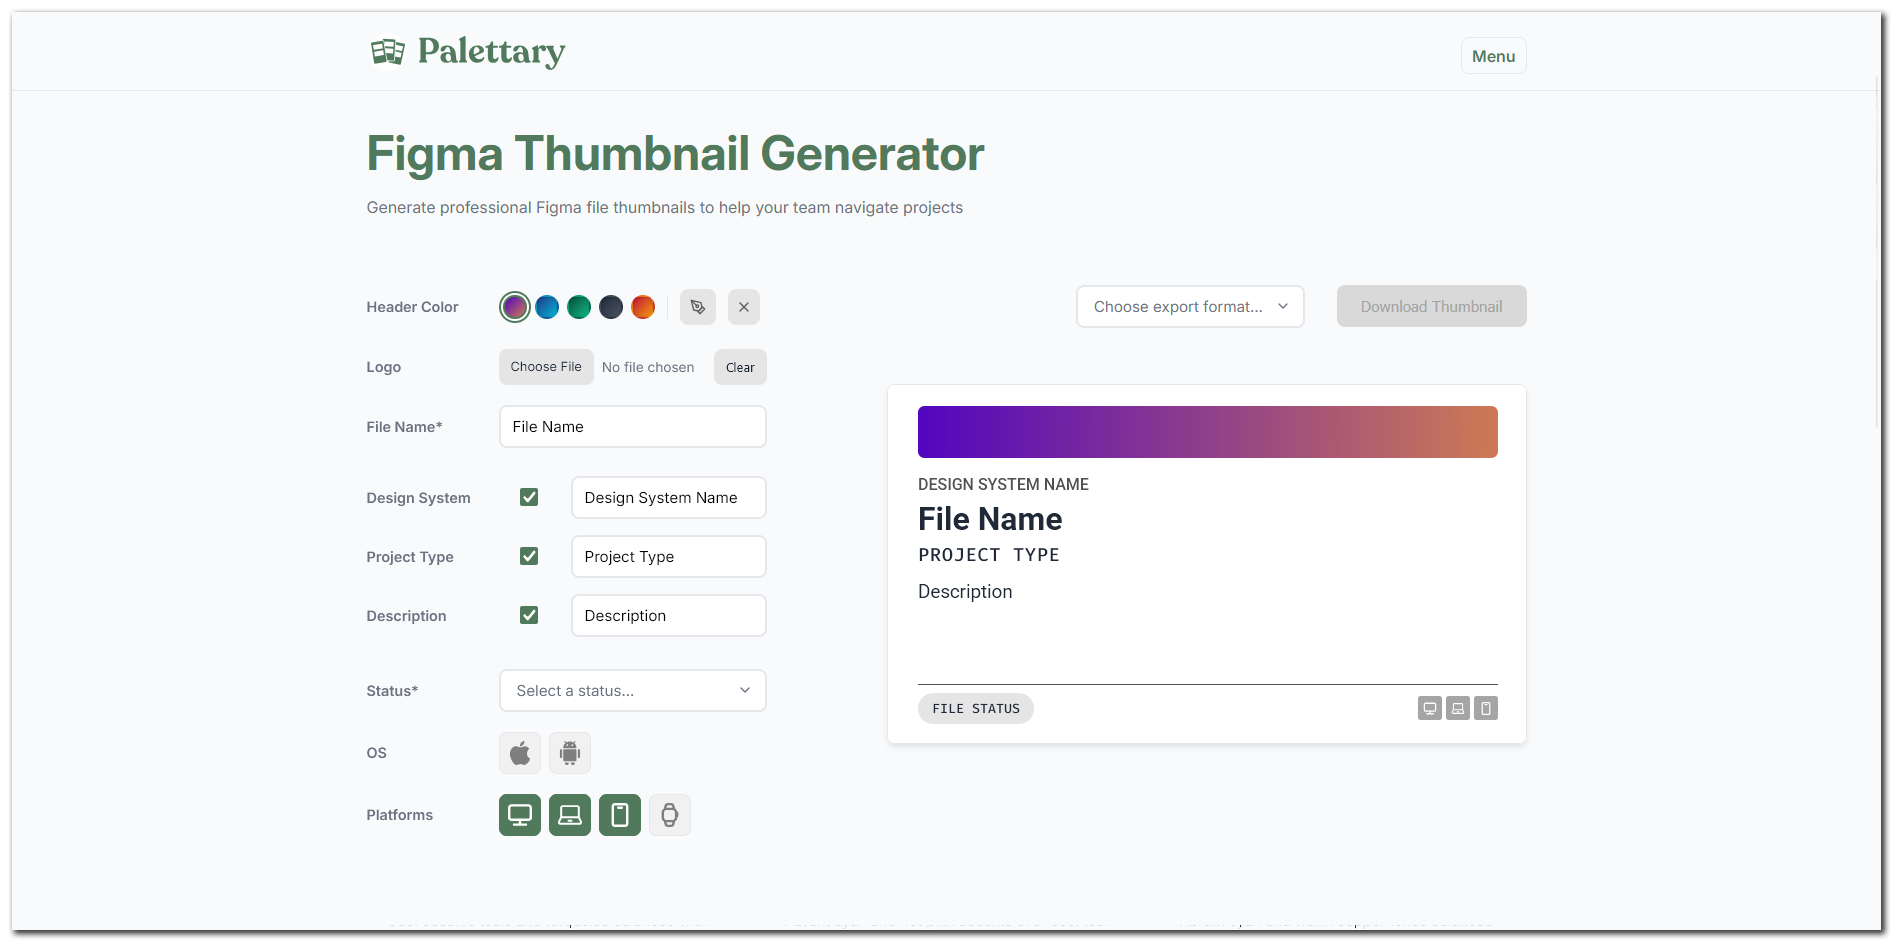
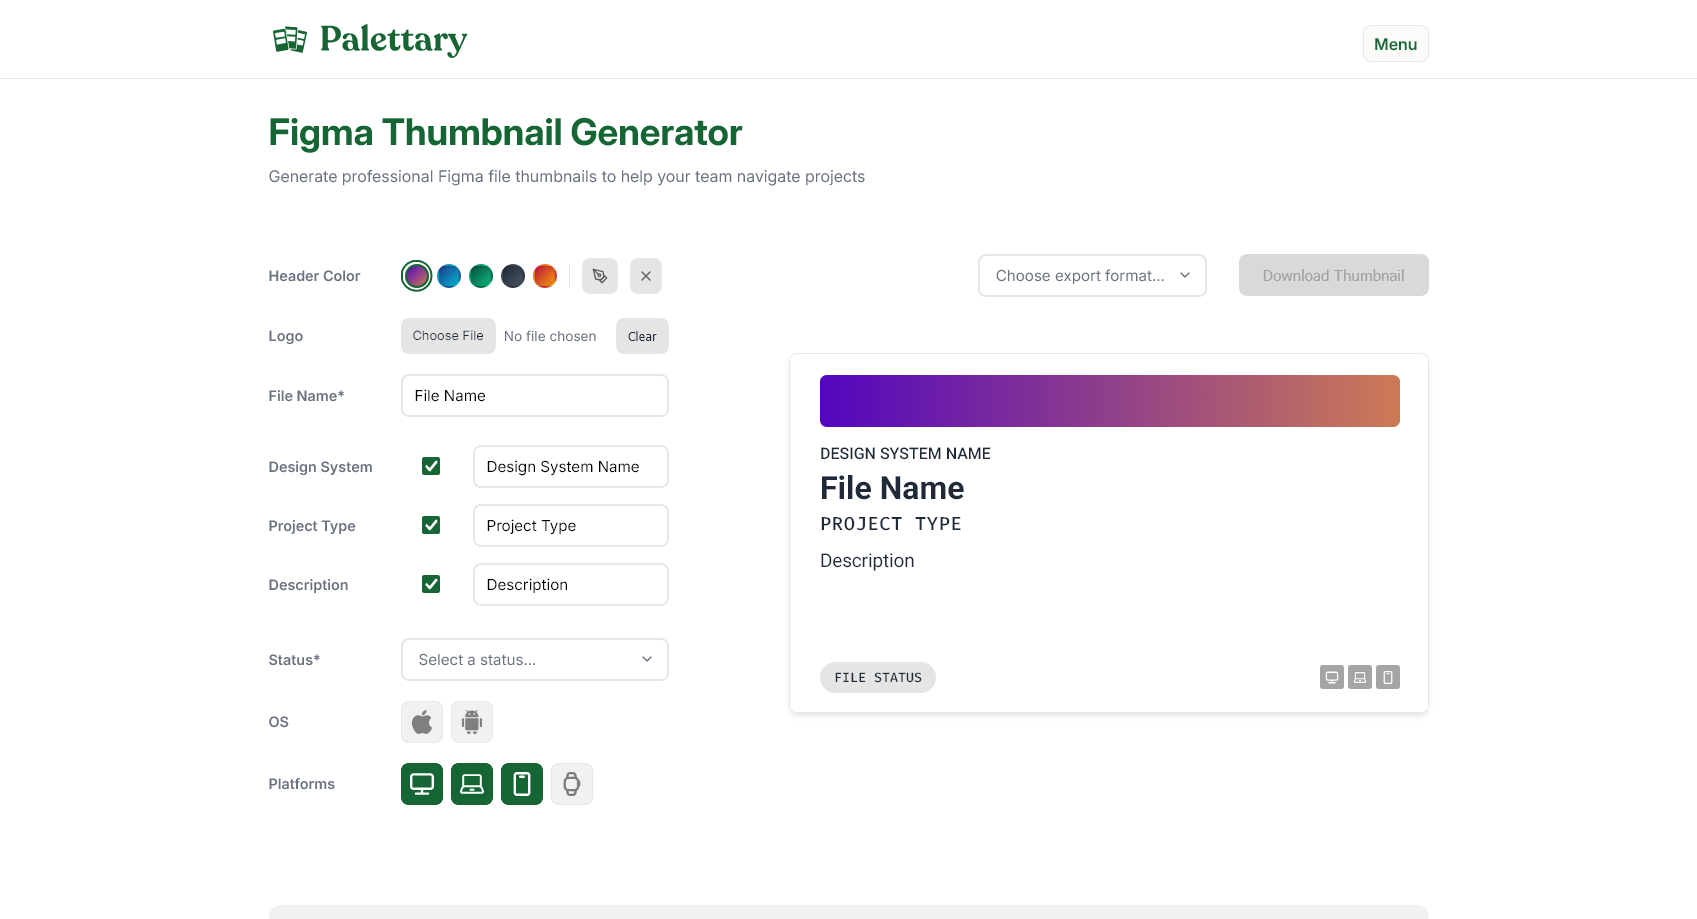
color updates

diff --git a/src/css/common.css b/src/css/common.css
@@ -32,7 +32,8 @@ html {
 
     /* Neutral (light to dark) */
     --color-neutral-0: #ffffff;
-    --color-neutral-100: #fbfbf9;
+    --color-neutral-50: #fcfcfc;
+    --color-neutral-100: #f6f6f6;
     --color-neutral-200: #f1f1f1;
     --color-neutral-250: #e5e7eb;
     --color-neutral-300: rgb(229, 229, 229);

diff --git a/src/css/palettes.css b/src/css/palettes.css
@@ -146,7 +146,7 @@
 
 /* Palette Display */
 .palette-display {
-    background: var(--color-neutral-100);
+    background: var(--color-neutral-50);
     padding: 30px;
     border-radius: 12px;
     box-shadow: var(--shadow-md);
